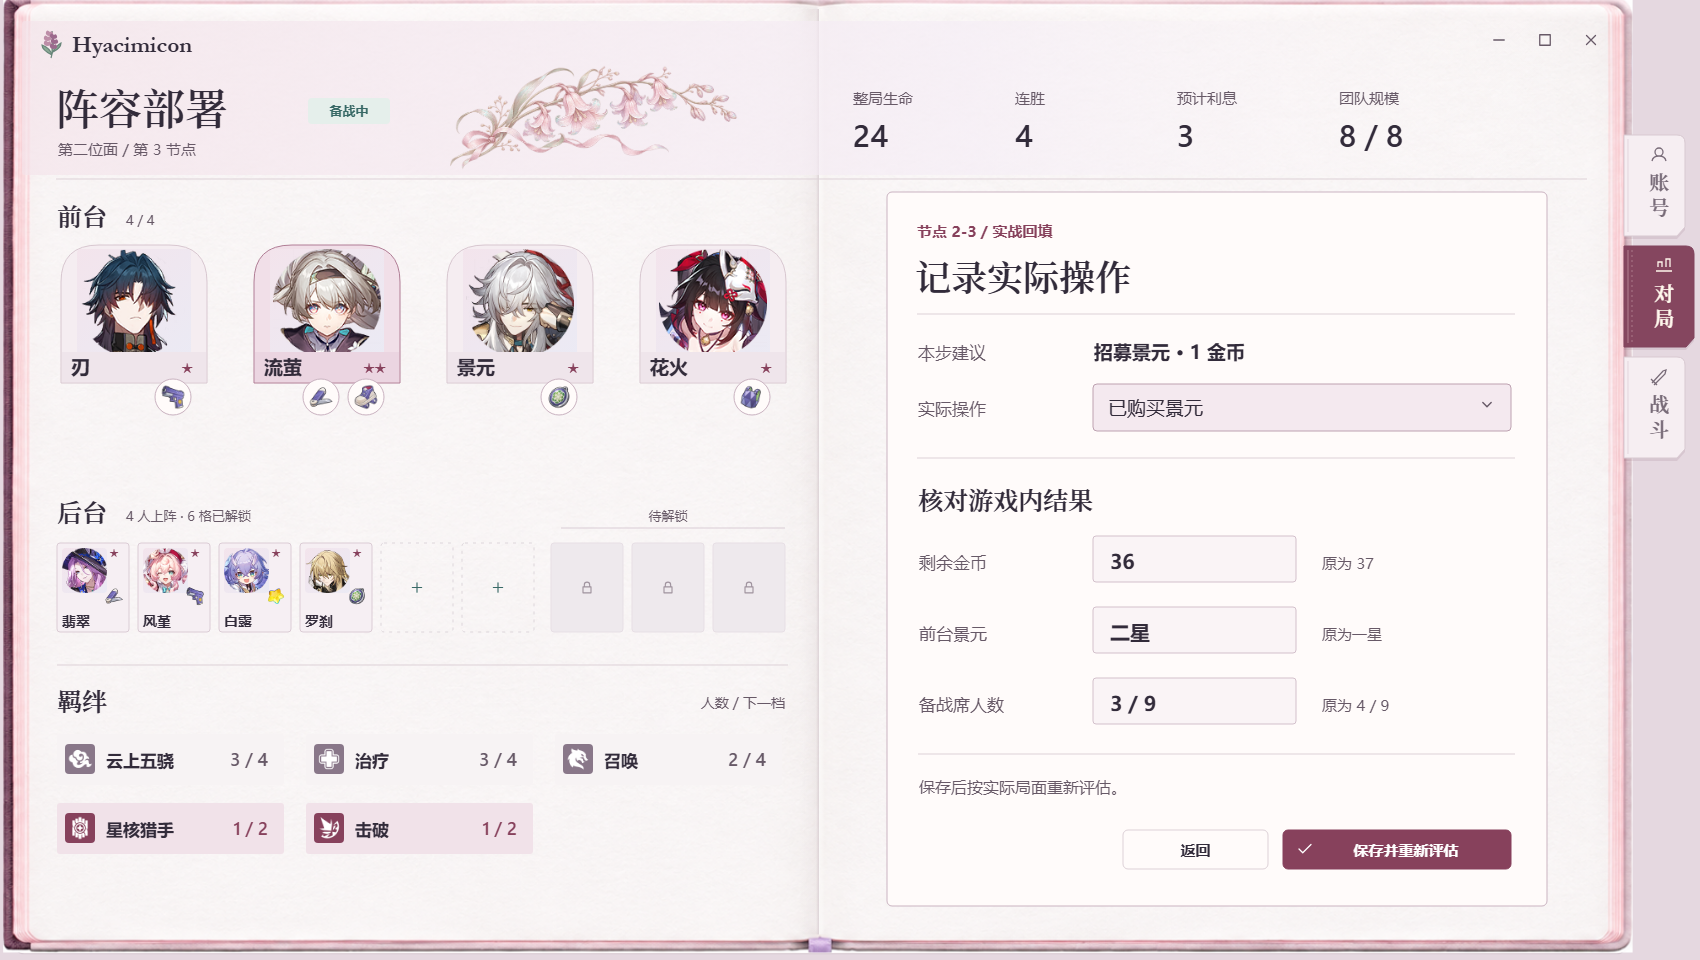
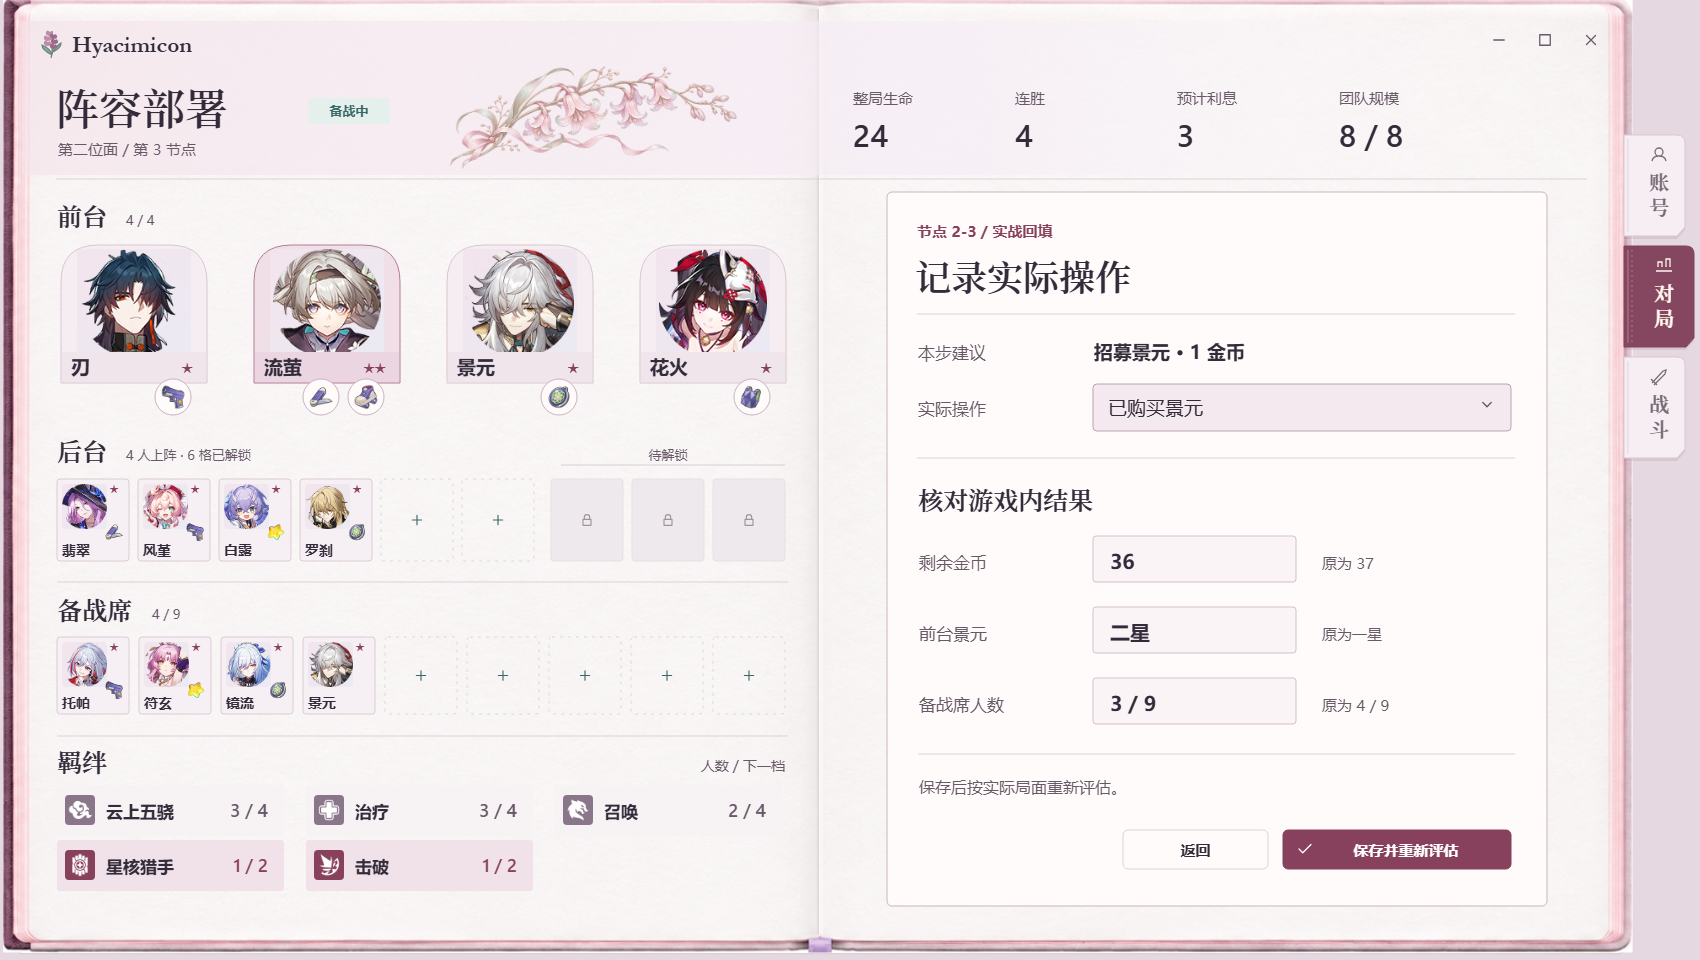
docs(player-app): group the bench with the team and expand inventory

diff --git a/design-drafts/player-app/README.md b/design-drafts/player-app/README.md
@@ -18,6 +18,6 @@
 
 三页沿用低饱和的风堇配色，彩色立绘两侧淡入纸面。书册作为窗口外框，保留左页宽度，向右展开等宽的右页。模块书签伸出书页，单独占宽。应用标识与窗口控制放在书页顶缘。参考图尺寸为 1700 × 960。
 
-前台角色已穿戴的装备以小图标挂在卡片下沿。点击图标可查看对应装备，详情样式留待后续设计。
+对局左页按前台、后台、备战席、羁绊排列。前台角色已穿戴的装备以小图标挂在卡片下沿，详情样式留待后续设计。右页建议下方并排放置库存和商店：图中六件待分配装备分两行展示，三种消耗品单列一区并显示数量；商店五个报价纵向排列，锁店与刷新紧邻报价。
 
 前端可直接使用同目录的[原型素材](assets/README.md)。
